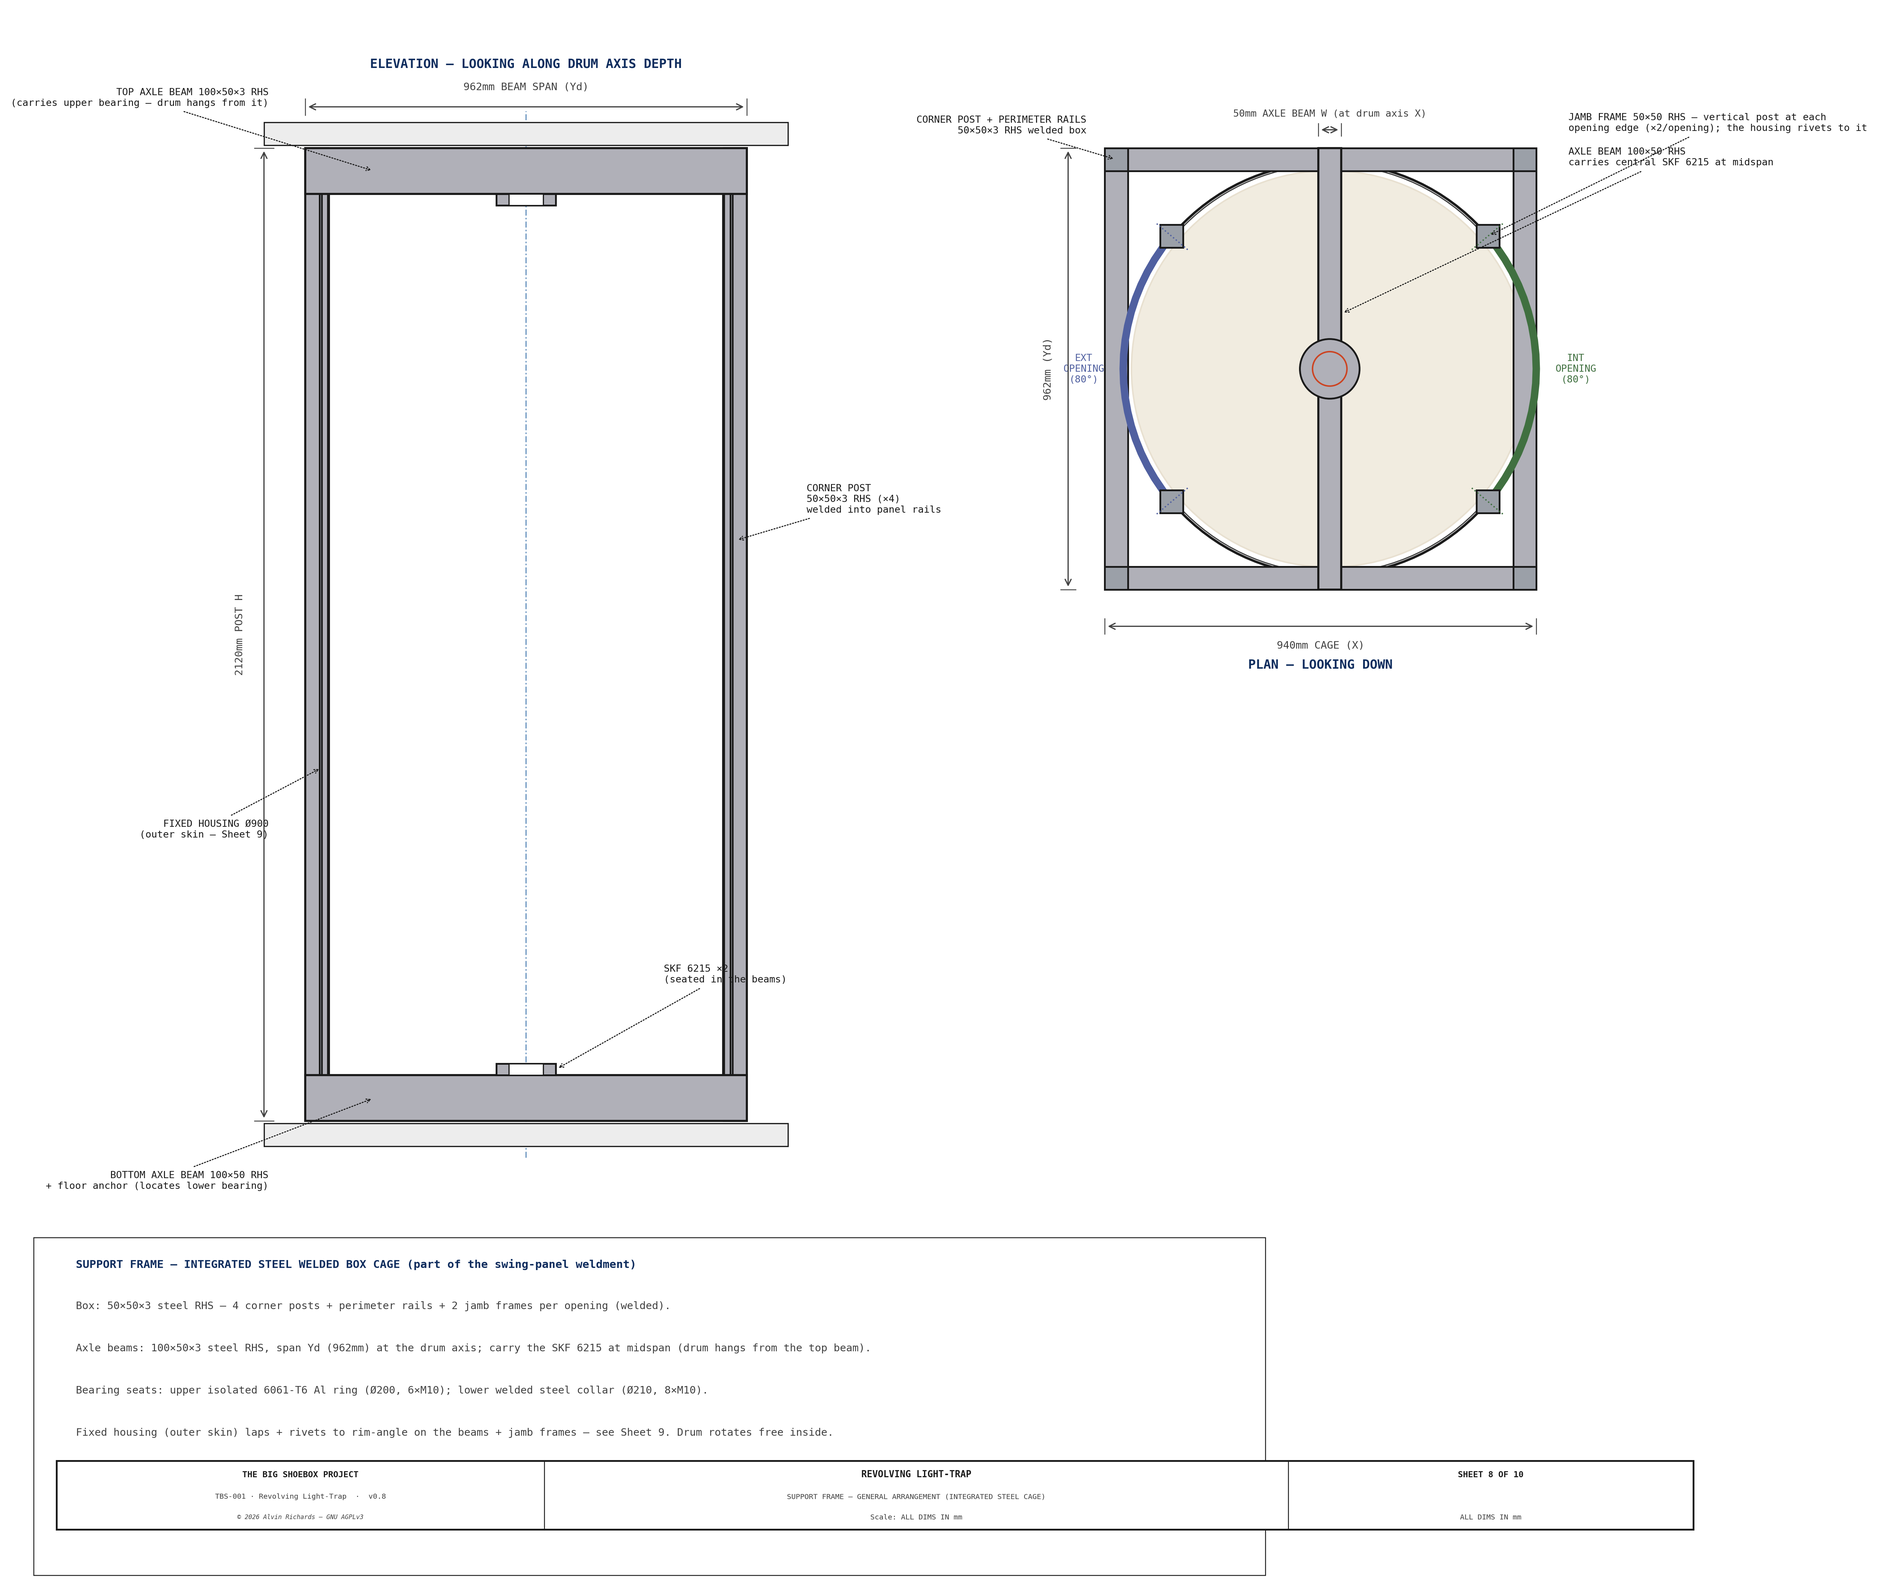
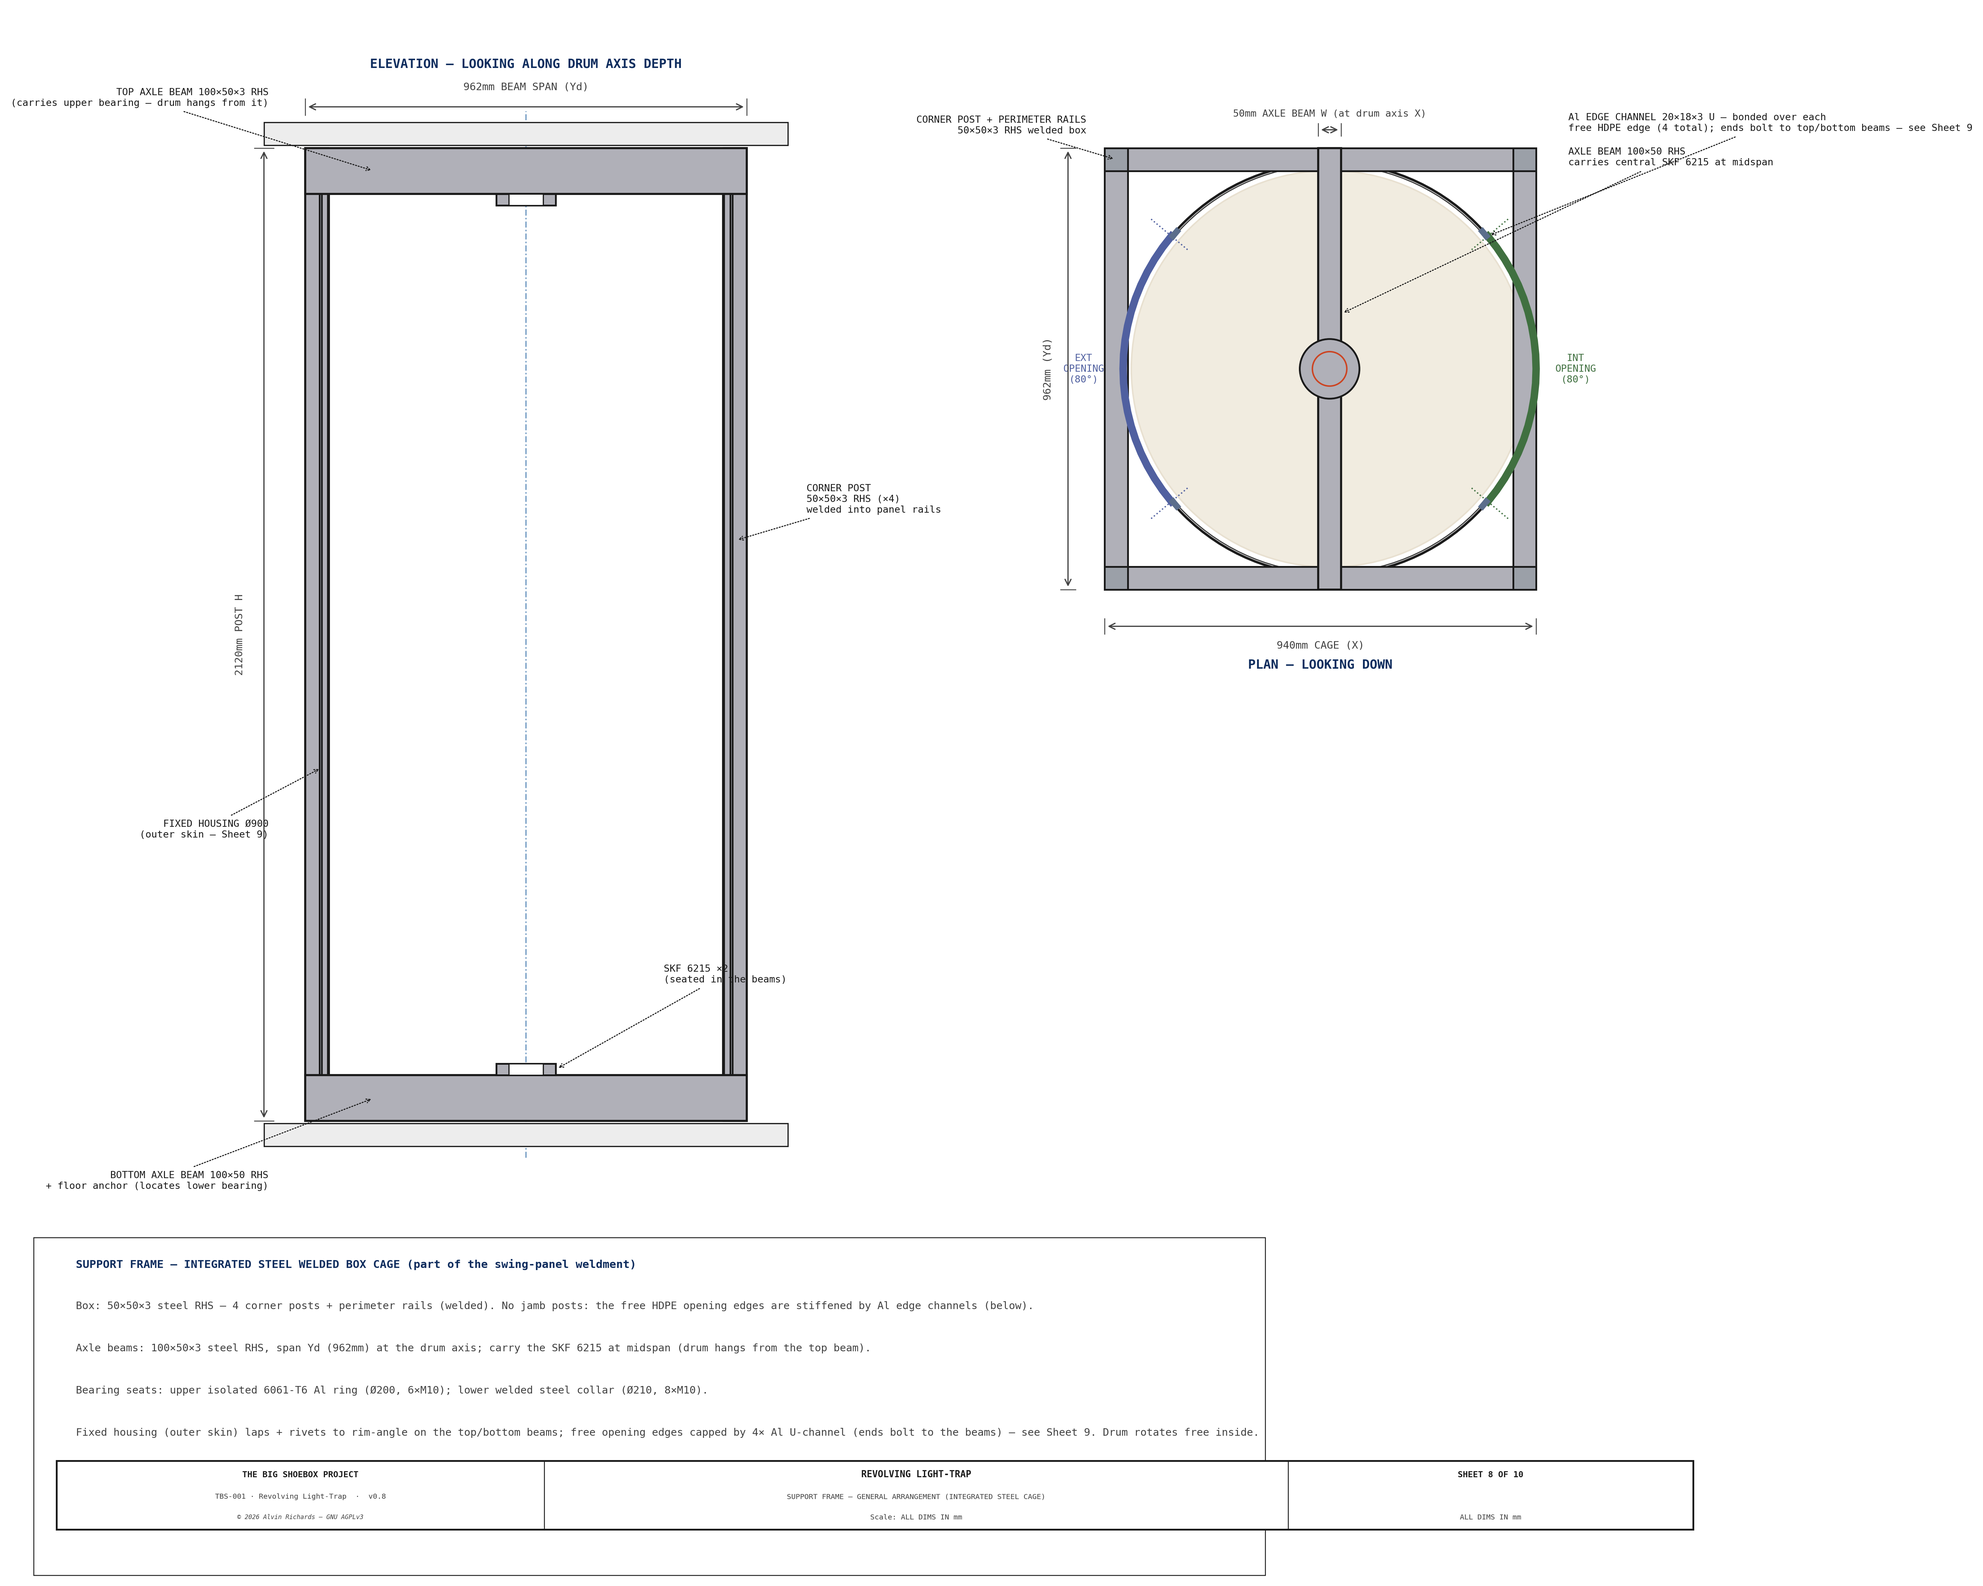
lighttrap: replace housing jamb posts with bonded Al U-channel edge stiffeners
Each of the fixed housing's two openings leaves two free vertical HDPE edges; a
6063-T5 Al U-channel now caps each (bonded DP8010 + SS blind rivets thru both legs),
ends bolted to the top/bottom frame beams via L-clips — lighter than steel jamb posts
and better suited to the single rolled-sheet housing. Sheet 9 gains DETAIL B (edge
section + fixing); Sheet 8 plan shows the channel glyphs at the opening edges (jamb
squares removed). New LT_EDGE_CHAN_* constants; report §9, RELEASE, TODO updated.

diff --git a/src/generators/generate_lighttrap_diagram.py b/src/generators/generate_lighttrap_diagram.py
@@ -37,6 +37,8 @@ from tbs_constants import (
     LT_FRAME_RHS, LT_FRAME_T, LT_FRAME_PLATE_T, LT_TOPRING_OD, LT_COLLAR_OD,
     LT_FRAME_MOUNT_BOLT_TOP, LT_FRAME_MOUNT_BOLT_BOT,
     LT_AXLE_BEAM_H, LT_AXLE_BEAM_W, LT_AXLE_BEAM_T, LT_AXLE_BEAM_SPAN,
+    LT_EDGE_CHAN_W, LT_EDGE_CHAN_LEG, LT_EDGE_CHAN_T, LT_EDGE_CHAN_N,
+    LT_EDGE_CHAN_RIVET_PITCH, LT_EDGE_CHAN_END_BOLT,
     LT_HOUSING_ARC, LT_HOUSING_RIVET_N,
     DIAGRAM_DPI, DIAGRAMS_DIR,
 )
@@ -876,21 +878,28 @@ def draw_sheet7():
     draw_circle(ax, hc[0], hc[1], SKF6215_OD / 2, lw=1.2, color=C_OUT, fill=True,
                 fc="#B0B0B8", zorder=8)
     draw_circle(ax, hc[0], hc[1], SKF6215_ID / 2, lw=1.0, color="#CC4422", zorder=9)
-    # jamb frames at the aperture edges + opening labels. The 80° housing opening is
-    # drawn as a colored arc so the two jamb posts read as framing that opening's edges.
+    # aperture edges + opening labels. The 80° housing opening is drawn as a colored arc;
+    # each free HDPE edge is capped by a bonded Al U-channel (slot grips the 5mm wall,
+    # legs run into the material arc) — the stiffener that replaced the steel jamb posts.
     oh = LT_OPENING_DEG / 2
+    AL_CH = "#5B6E8C"
     for oc, tag, col in ((180, "EXT", "#5060A0"), (0, "INT", "#407040")):
         a0, a1 = math.radians(oc - oh), math.radians(oc + oh)
         ts = [a0 + (a1 - a0) * k / 20 for k in range(21)]
         ax.plot([hc[0] + HR * math.cos(t) for t in ts], [hc[1] + HR * math.sin(t) for t in ts],
                 color=col, lw=5.0, zorder=7)                        # 80° opening (aperture)
-        for e in (oc - oh, oc + oh):
+        for e, sgn in ((oc - oh, -1), (oc + oh, +1)):               # -1/+1 = tangent into the material arc
             a = math.radians(e)
-            jx, jy = hc[0] + HR * math.cos(a), hc[1] + HR * math.sin(a)
-            rrect((jx - RHS / 2, jy - RHS / 2), RHS, RHS, fc="#9BA0A8", lw=1.2, zorder=8)
-            ax.plot([hc[0] + (HR - 46) * math.cos(a), hc[0] + (HR + 46) * math.cos(a)],
-                    [hc[1] + (HR - 46) * math.sin(a), hc[1] + (HR + 46) * math.sin(a)],
-                    color=col, lw=0.9, ls=":", zorder=8)            # jamb sits on the opening edge
+            rx, ry, tx, ty = math.cos(a), math.sin(a), -math.sin(a), math.cos(a)
+            ox, oy = hc[0] + HR * rx, hc[1] + HR * ry                            # outer edge face
+            ix, iy = hc[0] + (HR - LT_HOUSING_T) * rx, hc[1] + (HR - LT_HOUSING_T) * ry  # inner face
+            L = LT_EDGE_CHAN_LEG
+            ax.plot([ox, ix], [oy, iy], color=AL_CH, lw=2.6, zorder=9)           # channel base (caps the cut edge)
+            ax.plot([ox, ox + sgn * L * tx], [oy, oy + sgn * L * ty], color=AL_CH, lw=2.6, zorder=9)  # outer leg
+            ax.plot([ix, ix + sgn * L * tx], [iy, iy + sgn * L * ty], color=AL_CH, lw=2.6, zorder=9)  # inner leg
+            ax.plot([hc[0] + (HR - 46) * rx, hc[0] + (HR + 60) * rx],
+                    [hc[1] + (HR - 46) * ry, hc[1] + (HR + 60) * ry],
+                    color=col, lw=0.9, ls=":", zorder=7)            # opening edge
         ax.text(hc[0] + (HR + 86) * math.cos(math.radians(oc)),
                 hc[1] + (HR + 86) * math.sin(math.radians(oc)), f"{tag}\nOPENING\n({LT_OPENING_DEG}°)",
                 ha="center", va="center", fontsize=6.5, color=col, **FONT, zorder=9)
@@ -907,16 +916,16 @@ def draw_sheet7():
            fs=6.5, color=C_OUT, ha="right", arrow_style="->", font=FONT)
     leader(ax, hc[0] + HR * math.cos(math.radians(40)), hc[1] + HR * math.sin(math.radians(40)),
            fp(cx1, cyr)[0] + 70, fp(cx1, cyr)[1] + 55,
-           f"JAMB FRAME {RHS}×{RHS} RHS — vertical post at each\nopening edge (×2/opening); the housing rivets to it", fs=6.5, color=C_OUT,
-           ha="left", arrow_style="->", font=FONT)
+           f"Al EDGE CHANNEL {LT_EDGE_CHAN_W}×{LT_EDGE_CHAN_LEG}×{LT_EDGE_CHAN_T} U — bonded over each\nfree HDPE edge ({LT_EDGE_CHAN_N} total); ends bolt to top/bottom beams — see Sheet 9",
+           fs=6.5, color=C_OUT, ha="left", arrow_style="->", font=FONT)
 
     # ── Notes ────────────────────────────────────────────────────────────────
     notes = [
         "SUPPORT FRAME — INTEGRATED STEEL WELDED BOX CAGE (part of the swing-panel weldment)",
-        f"Box: {RHS}×{RHS}×{LT_FRAME_T} steel RHS — 4 corner posts + perimeter rails + 2 jamb frames per opening (welded).",
+        f"Box: {RHS}×{RHS}×{LT_FRAME_T} steel RHS — 4 corner posts + perimeter rails (welded). No jamb posts: the free HDPE opening edges are stiffened by Al edge channels (below).",
         f"Axle beams: {LT_AXLE_BEAM_H}×{LT_AXLE_BEAM_W}×{LT_AXLE_BEAM_T} steel RHS, span Yd ({LT_AXLE_BEAM_SPAN}mm) at the drum axis; carry the SKF 6215 at midspan (drum hangs from the top beam).",
         f"Bearing seats: upper isolated 6061-T6 Al ring (Ø{LT_TOPRING_OD}, {LT_FRAME_MOUNT_BOLT_TOP}×M10); lower welded steel collar (Ø{LT_COLLAR_OD}, {LT_FRAME_MOUNT_BOLT_BOT}×M10).",
-        "Fixed housing (outer skin) laps + rivets to rim-angle on the beams + jamb frames — see Sheet 9. Drum rotates free inside.",
+        f"Fixed housing (outer skin) laps + rivets to rim-angle on the top/bottom beams; free opening edges capped by {LT_EDGE_CHAN_N}× Al U-channel (ends bolt to the beams) — see Sheet 9. Drum rotates free inside.",
         "The cage is welded into the panel top/bottom rails → one structure, swings together. Panel frame owned by the hinged-panel report.",
         "ALL DIMS IN mm · plate thickness exaggerated for clarity",
     ]
@@ -980,7 +989,7 @@ def draw_sheet6():
             ts = [math.radians(a_lo + (a_hi - a_lo) * k / 30) for k in range(31)]
             ax.plot([cx + HR * math.cos(t) for t in ts], [HR * math.sin(t) for t in ts],
                     color=C6_HOUSE, lw=5.0, zorder=6)
-        for gc in (0, 180):                                       # housing opening jamb ticks
+        for gc in (0, 180):                                       # housing opening-edge ticks
             for e in (gc - oh, gc + oh):
                 a = math.radians(e)
                 ax.plot([cx + (HR - 22) * math.cos(a), cx + (HR + 22) * math.cos(a)],
@@ -1078,7 +1087,7 @@ def draw_sheet6():
 # ═════════════════════════════════════════════════════════════════════════════
 # SHEET 8 — Housing → frame attachment (outer-skin fixing)
 # The fixed housing (5mm) laps a rolled rim-angle welded to the frame; SS rivets +
-# DP8010. Section + jamb detail + plan (200° housing material, two 100° arcs).
+# DP8010. Section + Detail B (opening-edge Al U-channel) + plan (200° housing, two 100° arcs).
 # ═════════════════════════════════════════════════════════════════════════════
 def draw_sheet8():
     X_LO, X_HI, Z_LO, Z_HI = -470, 1140, -680, 300
@@ -1136,6 +1145,35 @@ def draw_sheet8():
     ax.text(sbx + S * 10, sbz - 13, "20 mm  (SECTION 7:1)", ha="center", va="top",
             fontsize=6, color=C_OUT, **FONT, zorder=8)
 
+    # ── DETAIL B — free opening EDGE: Al U-channel over the HDPE (plan · 7:1) ──
+    # Horizontal cut through a vertical opening edge: the shell runs in from the left
+    # and is capped at the cut edge (right) by the bonded Al U-channel that replaced the
+    # jamb post. Legs run back along the inner + outer faces; rivet through both + HDPE.
+    dx, dz = 400, 55
+    HT2 = S * LT_HOUSING_T                 # HDPE wall thickness in section
+    LEG2 = S * LT_EDGE_CHAN_LEG            # channel leg length (over the faces)
+    CT2 = S * LT_EDGE_CHAN_T               # channel wall
+    WL = S * 30                            # length of shell shown (broken on the left)
+    ax.text(dx - LEG2 / 2, dz + HT2 / 2 + CT2 + 48, "DETAIL B — OPENING EDGE  (plan · SCALE 7:1)",
+            ha="center", va="bottom", fontsize=8.5, color=TITLE_COL, fontweight="bold",
+            **FONT, zorder=15)
+    draw_rect(ax, dx - WL, dz - HT2 / 2, WL, HT2, fc="#DDE4EC", lw=1.6, zorder=5)   # HDPE shell wall
+    for xb in (dx - WL, dx - WL + 12, dx - WL + 24):                                # break (shell continues)
+        ax.plot([xb - 4, xb + 4], [dz - HT2 / 2 - 4, dz + HT2 / 2 + 4], color=C_OUT, lw=0.6, zorder=7)
+    draw_rect(ax, dx - 6, dz - HT2 / 2, 6, HT2, fc=C_GASKT, lw=0.6, zorder=6)       # DP8010 in the slot
+    draw_rect(ax, dx - LEG2, dz + HT2 / 2, LEG2, CT2, fc=C_ALUM, lw=1.4, zorder=6)  # outer leg
+    draw_rect(ax, dx - LEG2, dz - HT2 / 2 - CT2, LEG2, CT2, fc=C_ALUM, lw=1.4, zorder=6)  # inner leg
+    draw_rect(ax, dx, dz - HT2 / 2 - CT2, CT2, HT2 + 2 * CT2, fc=C_ALUM, lw=1.4, zorder=6)  # base (caps edge)
+    blind_rivet(ax, dx - LEG2 * 0.5, dz, 90, S * (2 * LT_EDGE_CHAN_T + LT_HOUSING_T), d=RVD)  # thru legs + HDPE
+    draw_dim_h(ax, dx - LEG2, dx, dz - HT2 / 2 - CT2 - 30, f"{LT_EDGE_CHAN_LEG}mm LEG",
+               offset=26, fs=6.0, above=False, font=FONT)
+    leader(ax, dx - LEG2 + 12, dz + HT2 / 2 + CT2, dx - LEG2 - 60, dz + HT2 / 2 - 8,
+           f"Al U-CHANNEL {LT_EDGE_CHAN_W}×{LT_EDGE_CHAN_LEG}×{LT_EDGE_CHAN_T} 6063-T5\nbonded over the {LT_HOUSING_T}mm HDPE edge · DP8010",
+           fs=6.2, color=C_OUT, ha="right", arrow_style="->", font=FONT)
+    leader(ax, dx + CT2, dz + HT2 * 0.3, dx + CT2 + 64, dz + 40,
+           f"Ø{LT_RIVET_D} SS DOMED-HEAD BLIND RIVET\nthru both legs + HDPE",
+           fs=6.2, color=C_OUT, ha="left", arrow_style="->", font=FONT)
+
     # ── PLAN — housing footprint (200° material, two 100° arcs) + rivets ──────
     pcx, pcz, pr = 820, 10, LT_HOUSING_R / 2
     oh = LT_OPENING_DEG / 2
@@ -1173,15 +1211,15 @@ def draw_sheet8():
         "1. Rolled 25×25×3 6061-T6 Al rim-angle, radius R450, WELDED to the frame top + bottom beams (two 100° arcs — the openings have no rim).",
         f"2. Housing laps {LT_LAP_H}mm over the standing lip; DP8010 bead in the lap (bond + light seal).",
         f"3. Drill Ø{LT_RIVET_HOLE:.1f} (#30), {LT_HOUSING_RIVET_N}× Ø{LT_RIVET_D} SS domed-head blind rivets per edge (McMaster 97525A435, ~{LT_RIVET_PITCH}mm pitch), wet in DP8010.",
-        "4. Housing vertical edges (at the openings) rivet to the jamb frames the same way (see Sheet 8).",
-        "SECTION A–A 7:1 (isotropic) · HOUSING PLAN 1:2 · fastener symbols schematic · ALL DIMS IN mm",
+        f"4. Free opening edges (no jamb posts): each of the {LT_EDGE_CHAN_N} vertical HDPE edges is capped by a bonded Al U-channel (DETAIL B) — Ø{LT_RIVET_D} SS blind rivets thru both legs + HDPE @ ~{LT_EDGE_CHAN_RIVET_PITCH}mm (grip ~{2 * LT_EDGE_CHAN_T + LT_HOUSING_T}mm), + DP8010; channel ends bolt to the top + bottom beams (1× M{LT_EDGE_CHAN_END_BOLT}/end via L-clip).",
+        "SECTION A–A 7:1 (isotropic) · DETAIL B 7:1 · HOUSING PLAN 1:2 · fastener symbols schematic · ALL DIMS IN mm",
     ]
     draw_notes(ax, notes, X_LO + 60, -340, 60, fs=7, font=FONT, width=2050,
                title_color=TITLE_COL)
 
     title_block(ax, "SHEET 9 OF 10", drawing_title="REVOLVING LIGHT-TRAP",
                 subtitle="HOUSING → FRAME ATTACHMENT (OUTER-SKIN FIXING)",
-                scale_note="SECTION 7:1 · HOUSING PLAN 1:2 · ALL DIMS IN mm",
+                scale_note="SECTION 7:1 · DETAIL B 7:1 · HOUSING PLAN 1:2 · ALL DIMS IN mm",
                 doc_id="TBS-001 · Revolving Light-Trap", height=0.045, scale=0.75)
     fig.savefig(os.path.join(DIAGRAMS_DIR, "lighttrap-sheet9.png"),
                 dpi=DIAGRAM_DPI, bbox_inches="tight", facecolor=BG)

diff --git a/RELEASE.md b/RELEASE.md
@@ -39,7 +39,10 @@ file** — a release must not ship without a changelog entry:
   rivets @ ~60mm + 3M DP8010 bond/light-seal), superseding the extrusion weld. Scope grew to specify the
   **support structure**: a **steel welded box cage integrated with the swing-panel weldment** carries the
   bearings (axle-support beam at the drum axis) and the fixed outer skin (housing laps + rivets to a rolled
-  rim-angle welded on the frame beams + jamb frames). New `tbs_constants` cap/joint/frame constants. Every
+  rim-angle welded on the top/bottom frame beams). The two housing openings' free HDPE edges are stiffened by
+  a **bonded aluminum U-channel** per edge (ends bolted to the top/bottom beams via L-clips) — a lighter
+  replacement for the steel jamb posts, given the housing is one rolled sheet; drawn as **Detail B** on Sheet 9
+  and shown at the opening edges on Sheet 8. New `tbs_constants` cap/joint/frame/edge-channel constants. Every
   detail sheet was recast **to a stated scale** (no more "NTS"): the joint sections at **7:1** (Sheets 4/9),
   the bearing-hub + component sections at **2.2:1 / 1:1**, and the assembly views to true isotropic scale with
   **scale bars** (Sheet 10 half-section 100mm bar + cage corner post; Sheet 8 with the frame members

diff --git a/TODO.md b/TODO.md
@@ -32,7 +32,9 @@ seals→6, cage→7. New constants live in `tbs_constants.py` (`LT_CAP_TOP_T`/`L
 - [ ] **parts.py / cost** — ADD light-trap joint/material parts as ONE batch (reconcile costing): 8mm 6061-T6
   Al plate Ø855 ×2 (both caps now Al), 25×25×3 6061-T6 Al rim-angle (2 rings), **1/8" SS domed-head blind
   rivets 97525A425 $13.83/100 + 97525A435 $14.59/100**, 3M DP8010, frame steel RHS (50×50×3 posts/rails +
-  100×50×3 axle beams + 10mm bearing plates). Prices in report §4.5; material now, fab later.
+  100×50×3 axle beams + 10mm bearing plates), **4× 6063-T5 Al U-channel ~20×18×3 opening-edge stiffeners**
+  (confirm stocked section; + 8× L-clip + 8× M8 end bolts) — REPLACED the steel jamb posts (2026-08-23).
+  Prices in report §4.5; material now, fab later.
 - [x] **light-trap-selection.md §4** — DONE. §4.1 metal caps, §4.2 frame-mounted bearings, §4.3 felt/brush
   running gap, §4.4/§4.5 lap-joint fasteners + real rivet SKUs + Al plate/angle suppliers.
 - [x] **Registration** — DONE. All 9 sheets in `dependencies.yml`/`all-diagrams.md`/`publish.sh`/`setup_docs.py`;

diff --git a/light-trap-selection.md b/light-trap-selection.md
@@ -304,8 +304,9 @@ axle-support beam at the drum axis and the members dimensioned.
 ![TBS-001 Light-Trap — Sheet 8: Support Frame General Arrangement](assets/lighttrap-sheet8.png)
 
 **Sheet 9 — Housing → frame attachment.** The section showing the fixed outer skin
-lapped and riveted to the rolled rim-angle welded on the frame beams and jamb frames —
-the drum rotating free inside.
+lapped and riveted to the rolled rim-angle welded on the top and bottom frame beams,
+with Detail B showing each free opening edge capped by a bonded aluminum U-channel
+(the stiffener that replaces the jamb posts) — the drum rotating free inside.
 
 ![TBS-001 Light-Trap — Sheet 9: Housing → Frame Attachment](assets/lighttrap-sheet9.png)
 
